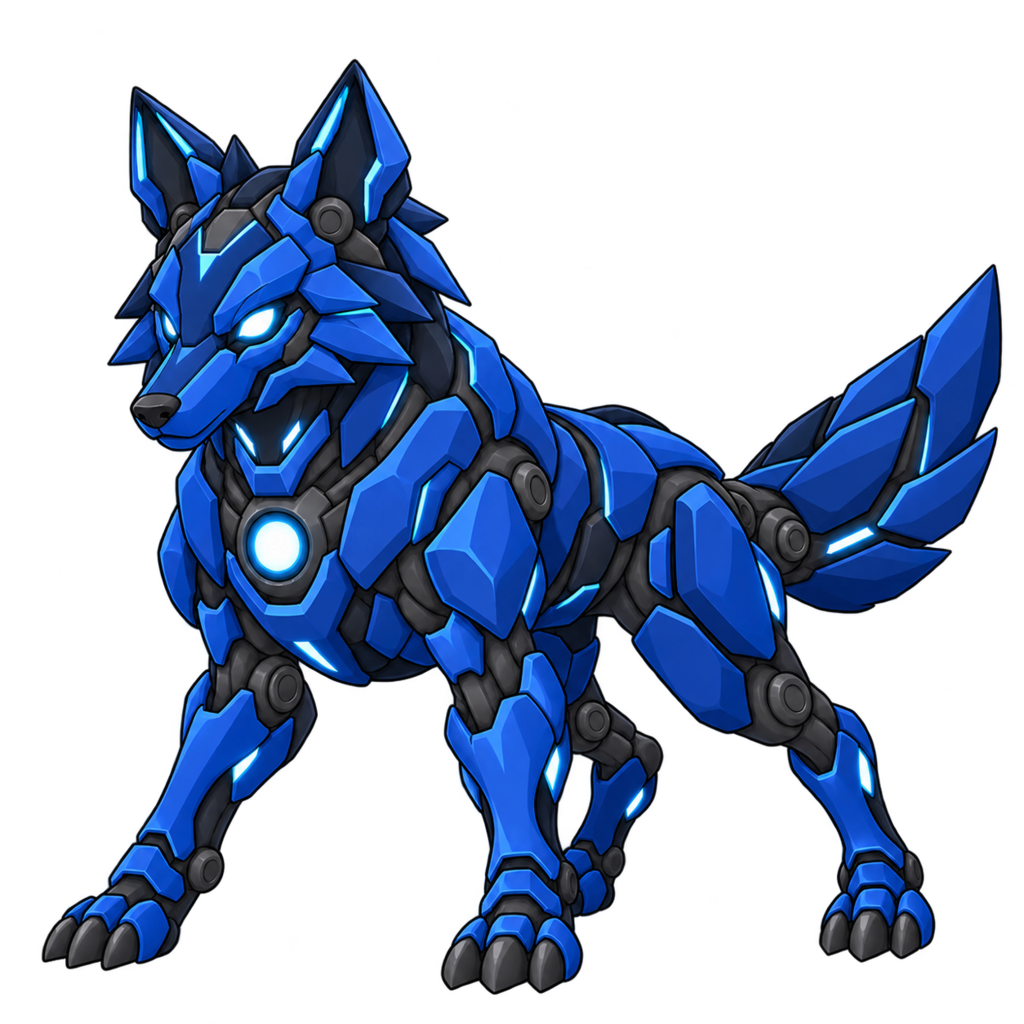
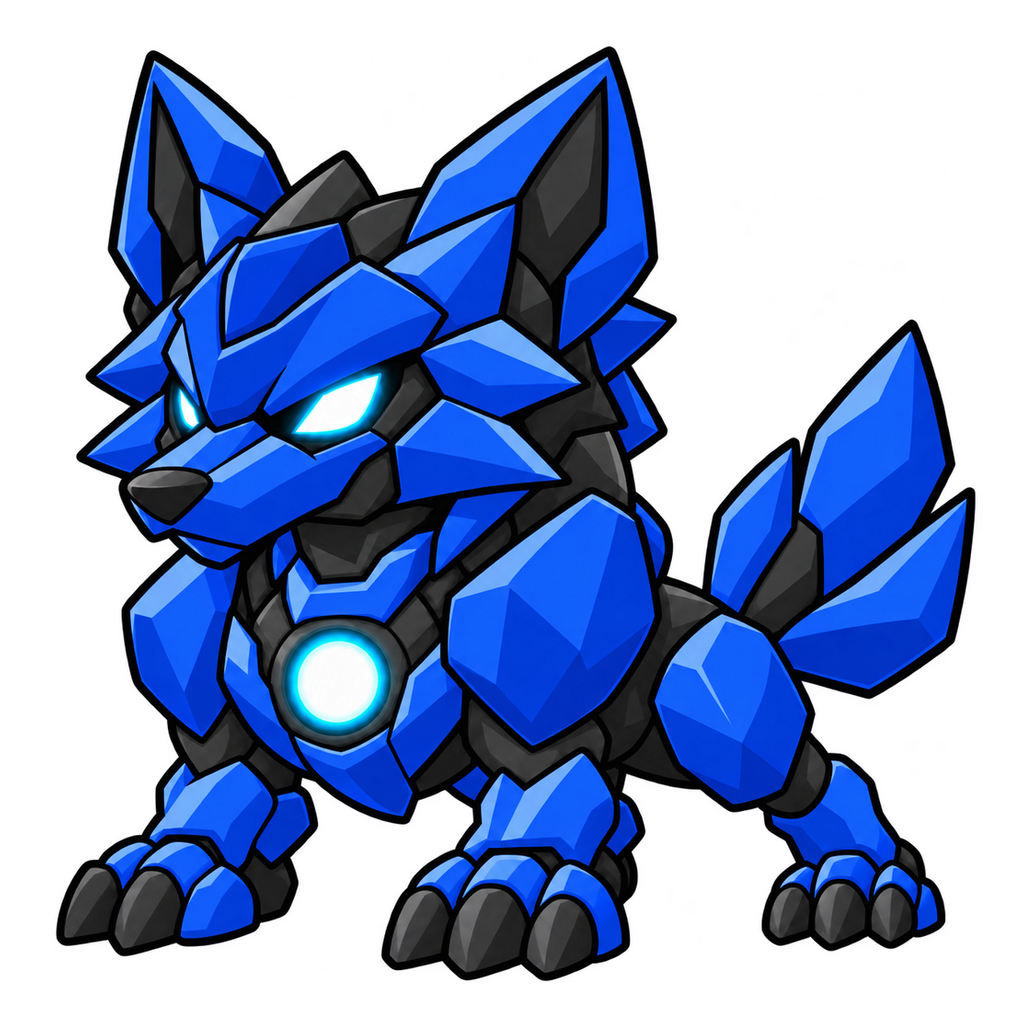
art(units): redesign VOLX as readable chibi sprites

diff --git a/Assets/CoreBeasts/Art/Units/Volx/Combat/README.md b/Assets/CoreBeasts/Art/Units/Volx/Combat/README.md
@@ -15,7 +15,9 @@
 - 96〜256pxで顔、コア、脚、尾を識別できる太い輪郭と大きな色面にする
 - 背景、影、文字、UI枠を含めない
 - 左右反転しても破綻しない構図にする
-- 玩具的な強い光沢を避け、暗いバトルUIに合うマットな装甲と抑えた彩度にする
-- 頭身を精悍にし、頭・胸部・前脚・後脚・尾を大きな形として読む
+- 玩具的な強い光沢を避け、暗いバトルUIに合うセル塗りと明確な明暗差にする
+- 約2.5頭身のデフォルメとし、頭と胸部を全体の主役にする
+- 装甲は大きな色面へ整理し、ネジ、ケーブル、微細なパネル線を描かない
+- 発光箇所は両目と胸部コアに限定する
 
-画像生成時の基準プロンプトは、既存VOLXを「約40%少ない内部ディテール、太い外周、広い装甲面、少ない発光部」に再構成し、同一原画を属性色だけ変更する内容です。改良版では目と胸部コア以外の発光を抑え、赤・緑・青を深い色域に統一しています。
+画像生成時は、既存VOLXの種族記号を残しながら、約2.5頭身、大きな頭、広い胸部、短く太い四肢、3枚の尾装甲へ再設計しています。赤版を基準モデルとし、緑・青は同じ形のまま色だけを変更。赤/青は頭・胸部・前脚を赤、後半身・後脚・尾を青に分け、縮小時でも2属性を識別できる構成です。
